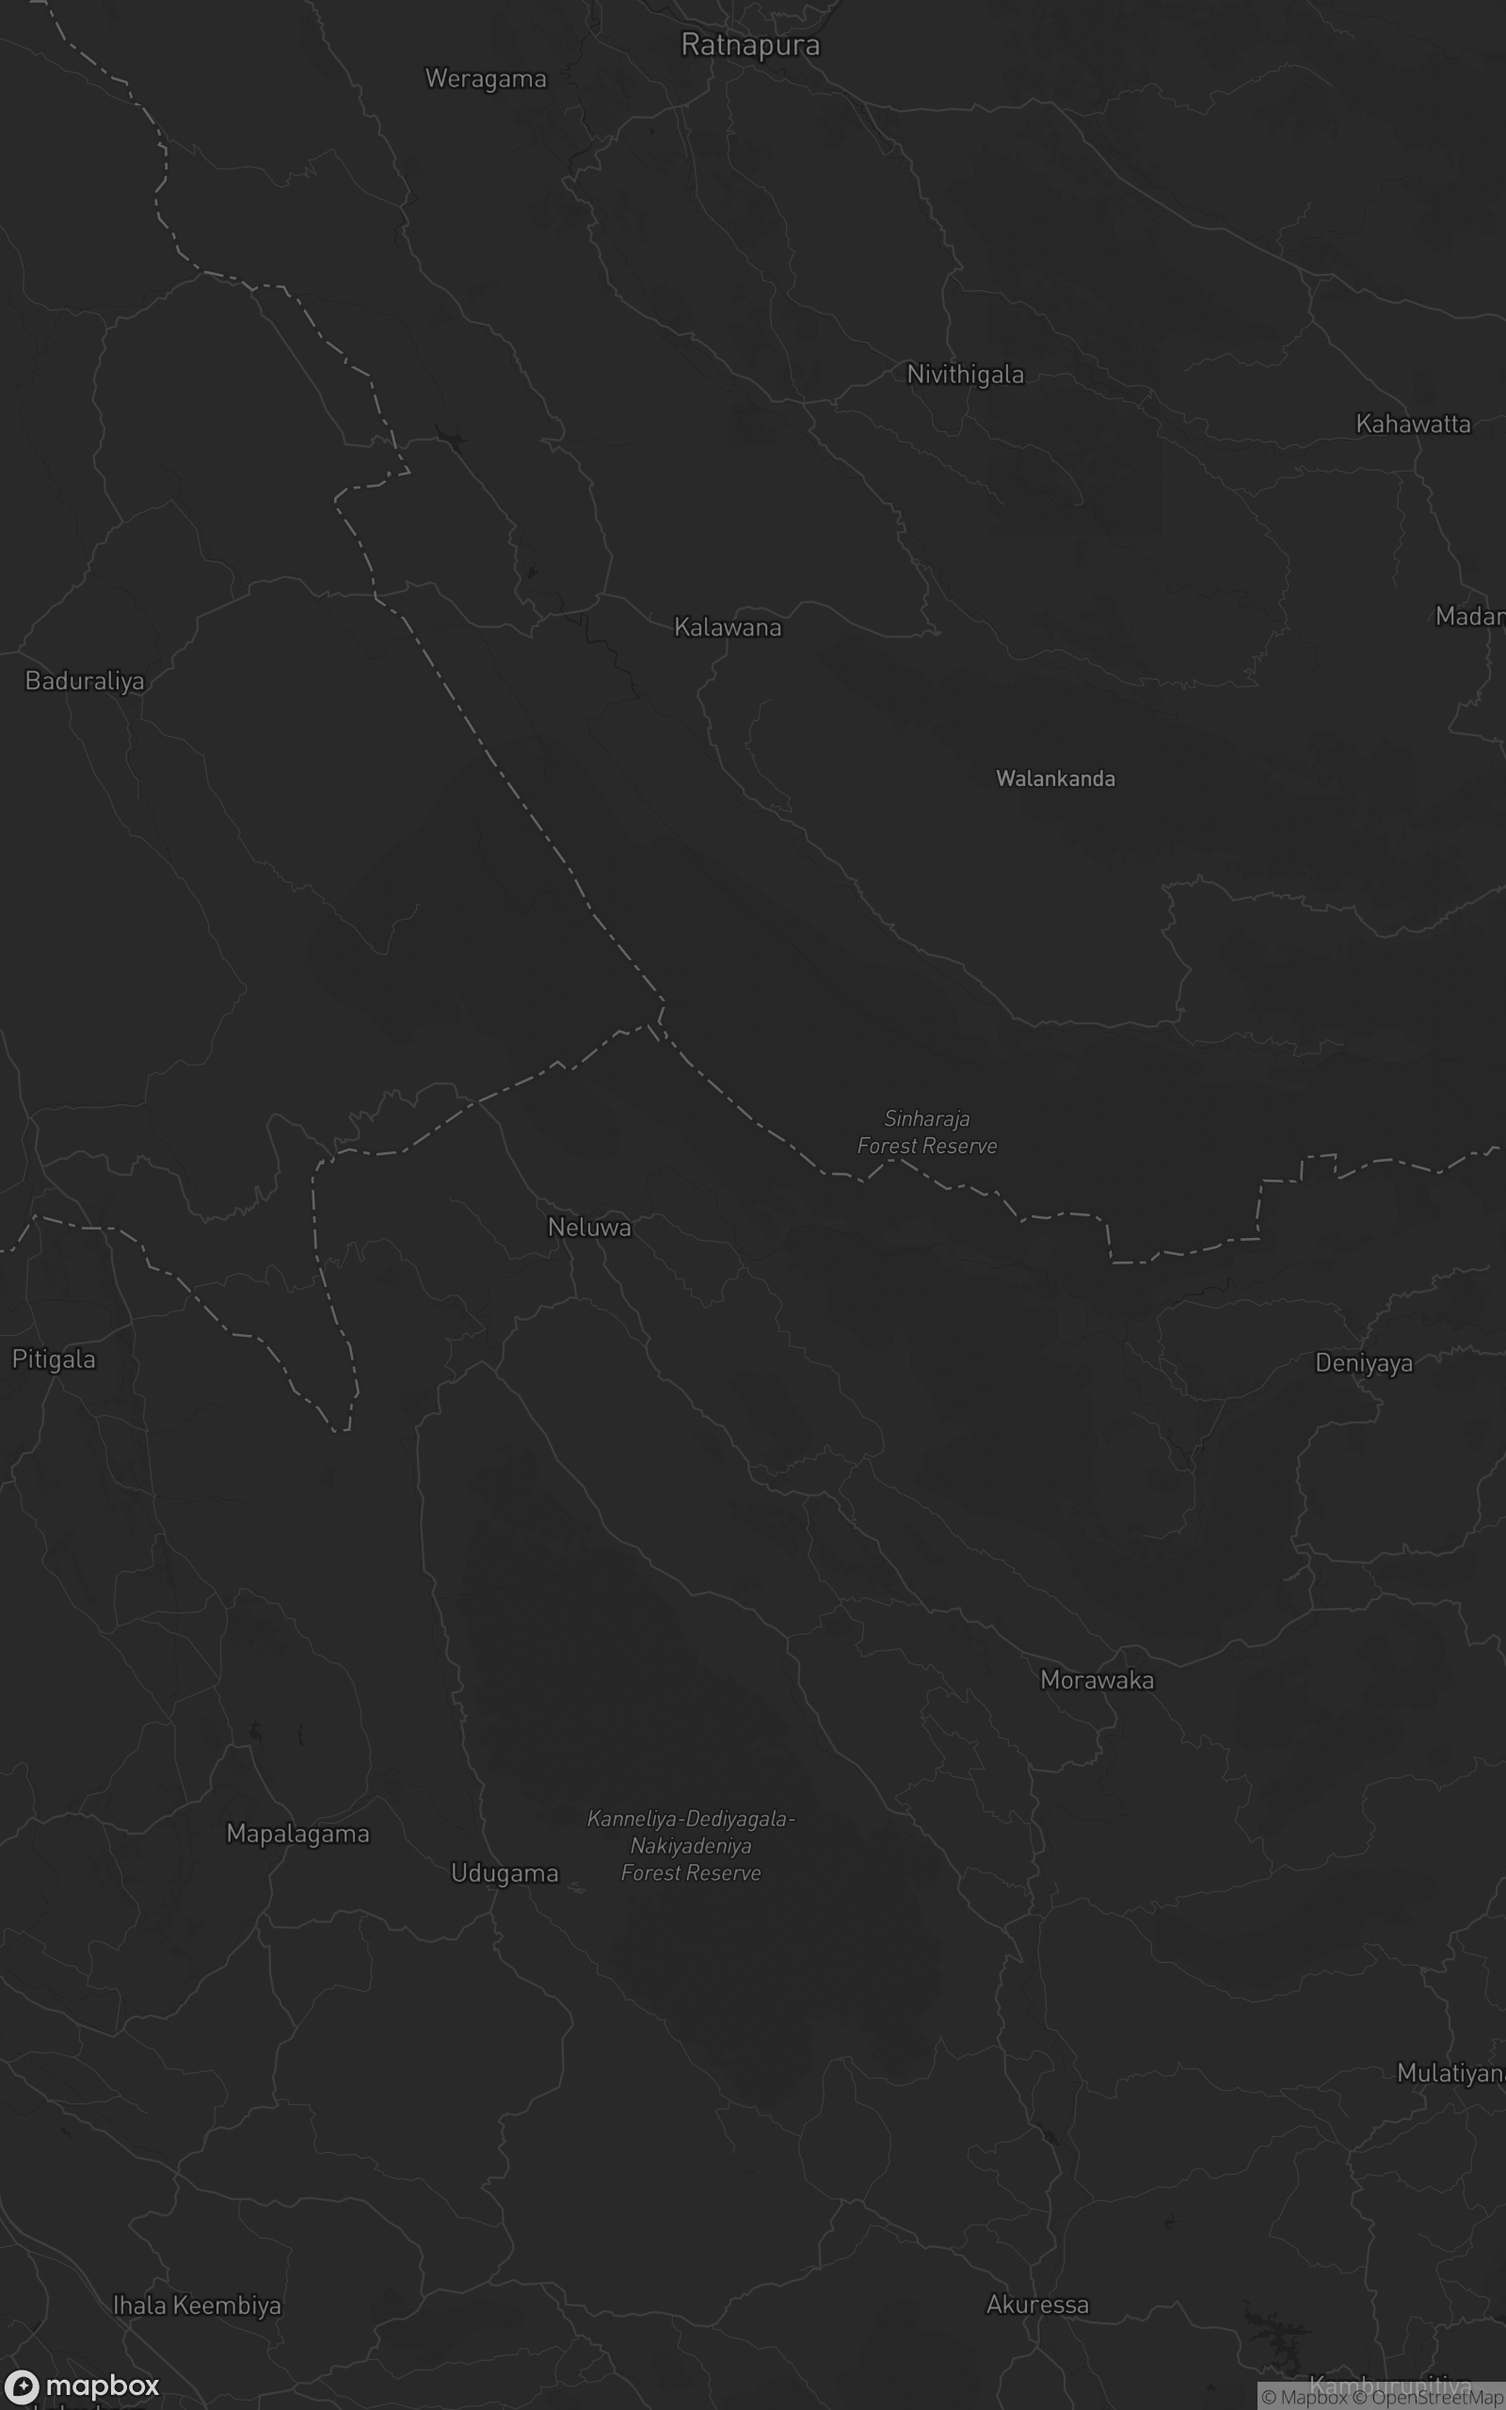
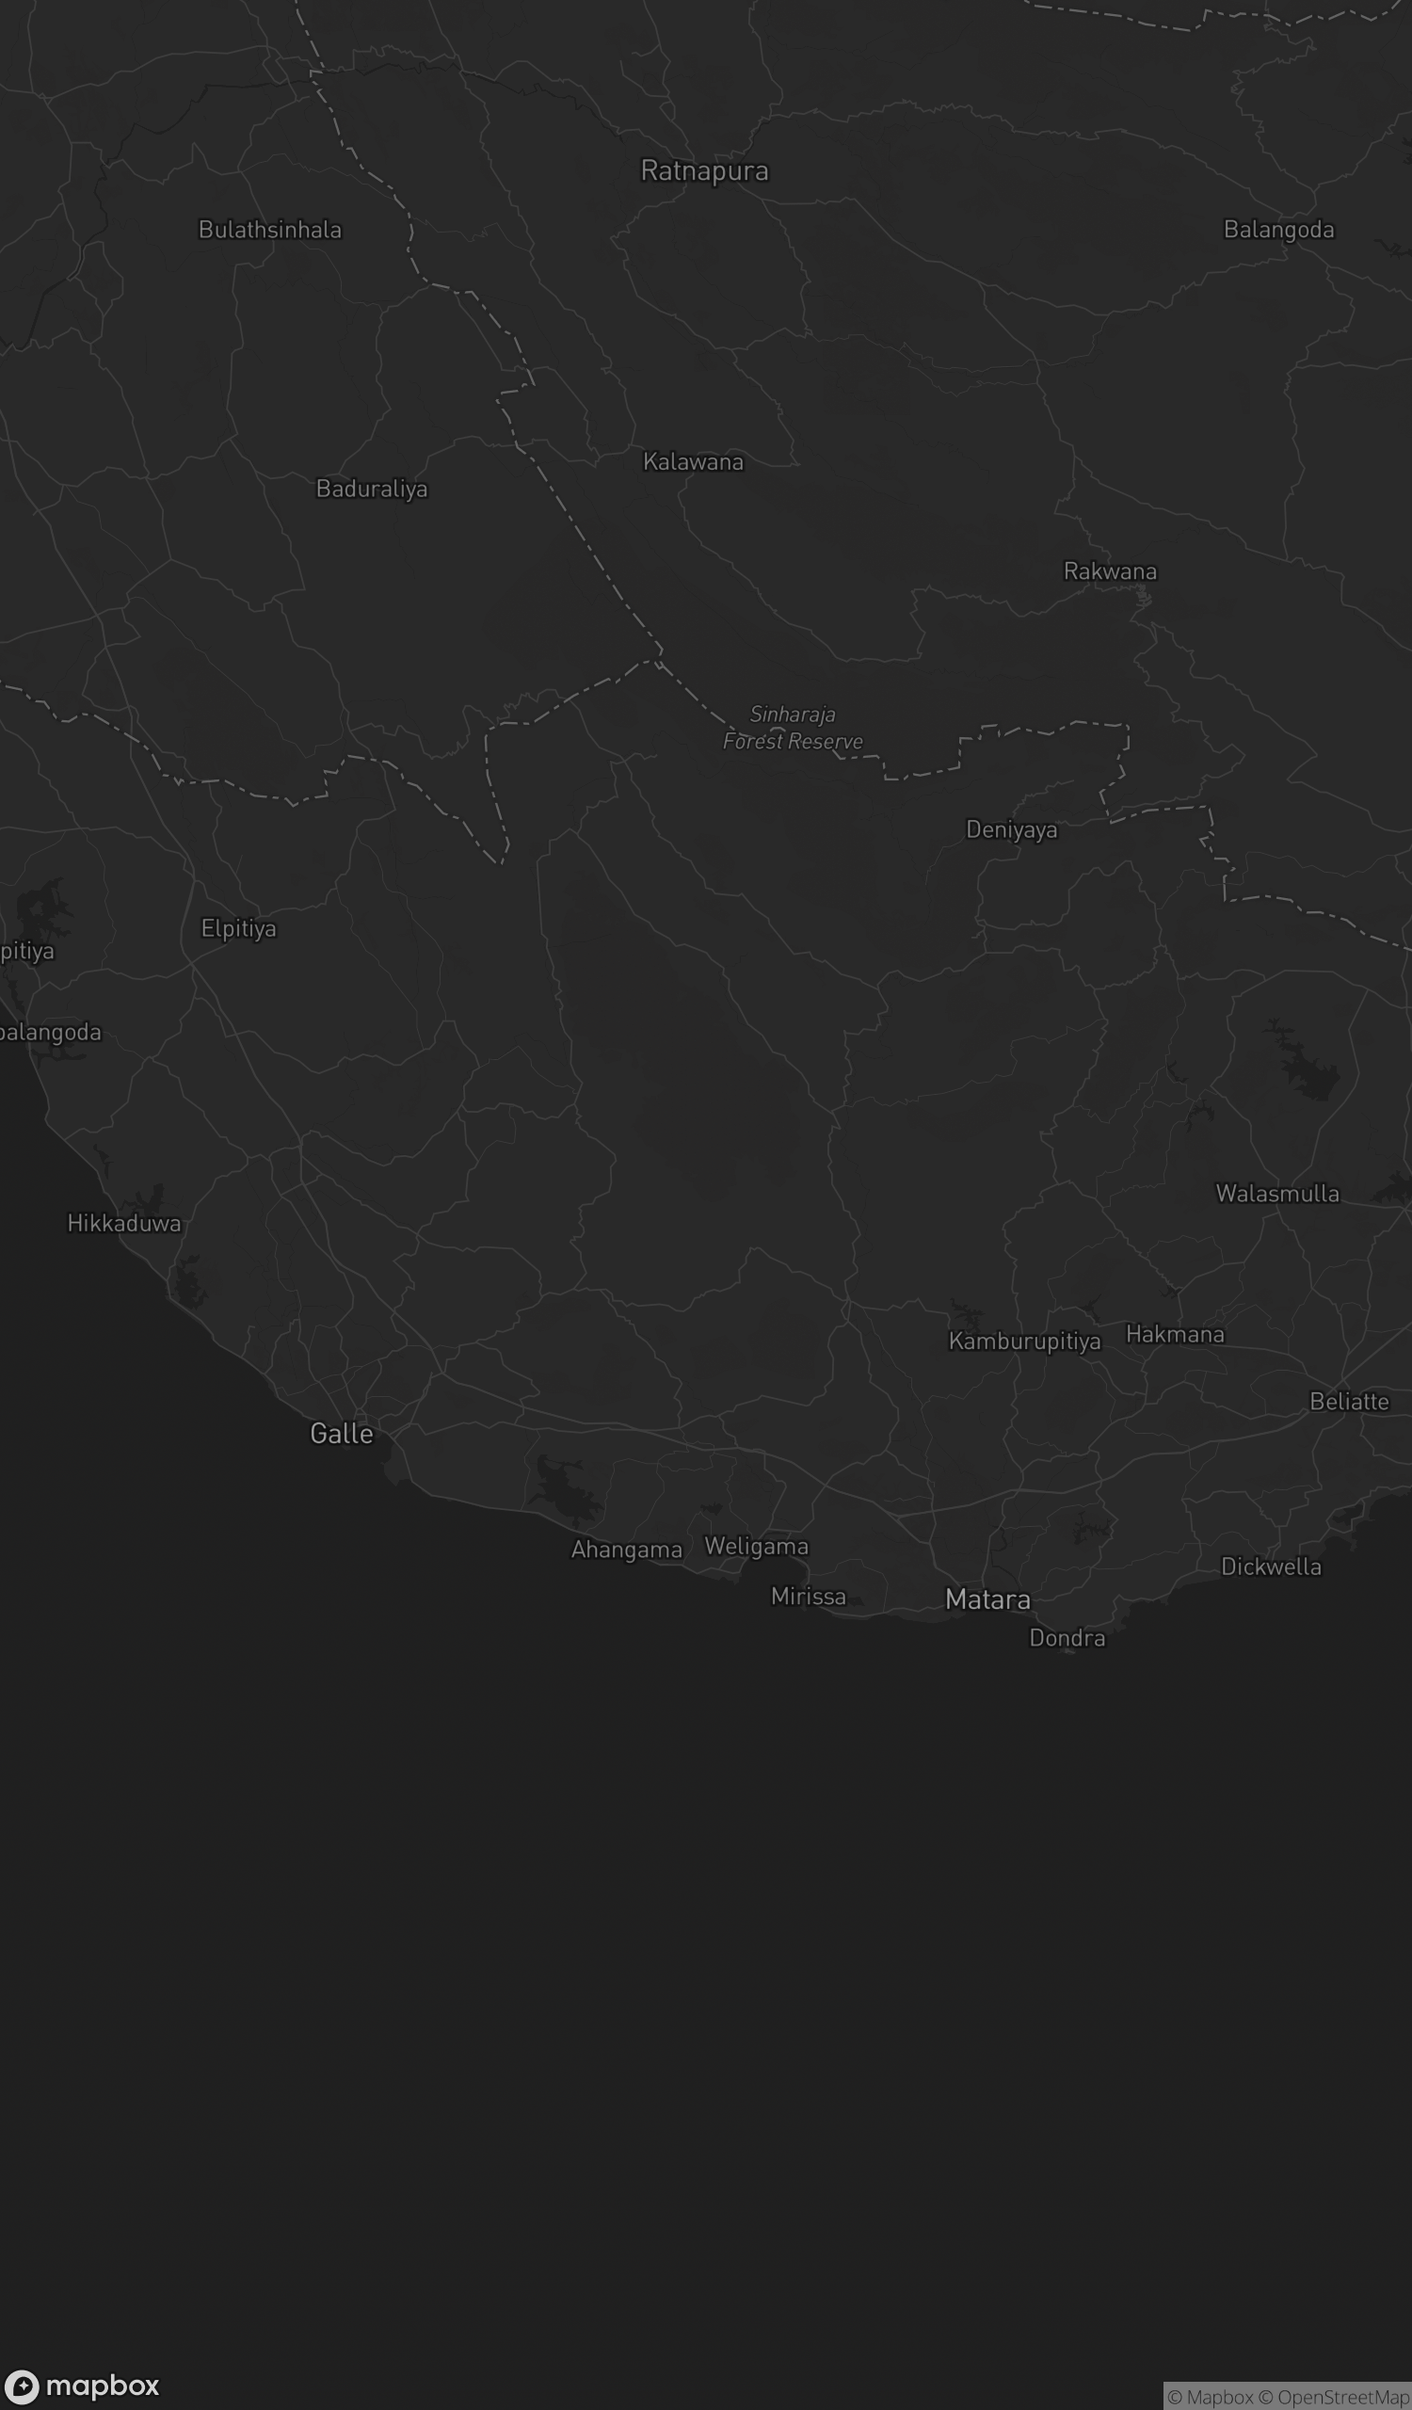
updates

diff --git a/app/homepagesections/Forest Section.tsx b/app/homepagesections/Forest Section.tsx
@@ -248,15 +248,19 @@ function ArrowLeftIcon() {
   return (
     <svg
       aria-hidden
+      width={24}
+      height={24}
       viewBox="0 0 24 24"
-      className="h-5 w-5"
       fill="none"
-      stroke="currentColor"
-      strokeWidth="1.5"
-      strokeLinecap="round"
-      strokeLinejoin="round"
+      className="shrink-0"
     >
-      <path d="M19 12H5M11 6l-6 6 6 6" />
+      <path
+        d="M11 18L5 12L11 6M5 12L19 12"
+        stroke="currentColor"
+        strokeWidth={2}
+        strokeLinecap="round"
+        strokeLinejoin="round"
+      />
     </svg>
   );
 }
@@ -265,21 +269,25 @@ function ArrowRightIcon() {
   return (
     <svg
       aria-hidden
+      width={24}
+      height={24}
       viewBox="0 0 24 24"
-      className="h-5 w-5"
       fill="none"
-      stroke="currentColor"
-      strokeWidth="1.5"
-      strokeLinecap="round"
-      strokeLinejoin="round"
+      className="shrink-0"
     >
-      <path d="M5 12h14M13 6l6 6-6 6" />
+      <path
+        d="M13 18L19 12L13 6M19 12L5 12"
+        stroke="currentColor"
+        strokeWidth={2}
+        strokeLinecap="round"
+        strokeLinejoin="round"
+      />
     </svg>
   );
 }
 
 const MOBILE_ARROW_BTN =
-  "pointer-events-auto flex h-11 w-11 shrink-0 items-center justify-center border border-cream/55 bg-black/40 text-cream backdrop-blur-[10px] transition-opacity disabled:pointer-events-none disabled:opacity-30";
+  "pointer-events-auto flex h-12 w-12 shrink-0 items-center justify-center bg-cream/16 text-cream ring-1 ring-inset ring-cream/32 backdrop-blur-[10px] transition-opacity disabled:pointer-events-none disabled:opacity-30";
 
 type ForestSectionProps = {
   overlayTargetRef?: RefObject<HTMLElement | null>;

diff --git a/app/homepagesections/LocationSection.tsx b/app/homepagesections/LocationSection.tsx
@@ -399,7 +399,7 @@ export const LocationSection = forwardRef<HTMLElement, LocationSectionProps>(
               alt=""
               fill
               sizes="100vw"
-              className="object-cover object-[center_32%]"
+              className="object-cover object-center"
             />
             <StaticMapMarker />
           </div>
